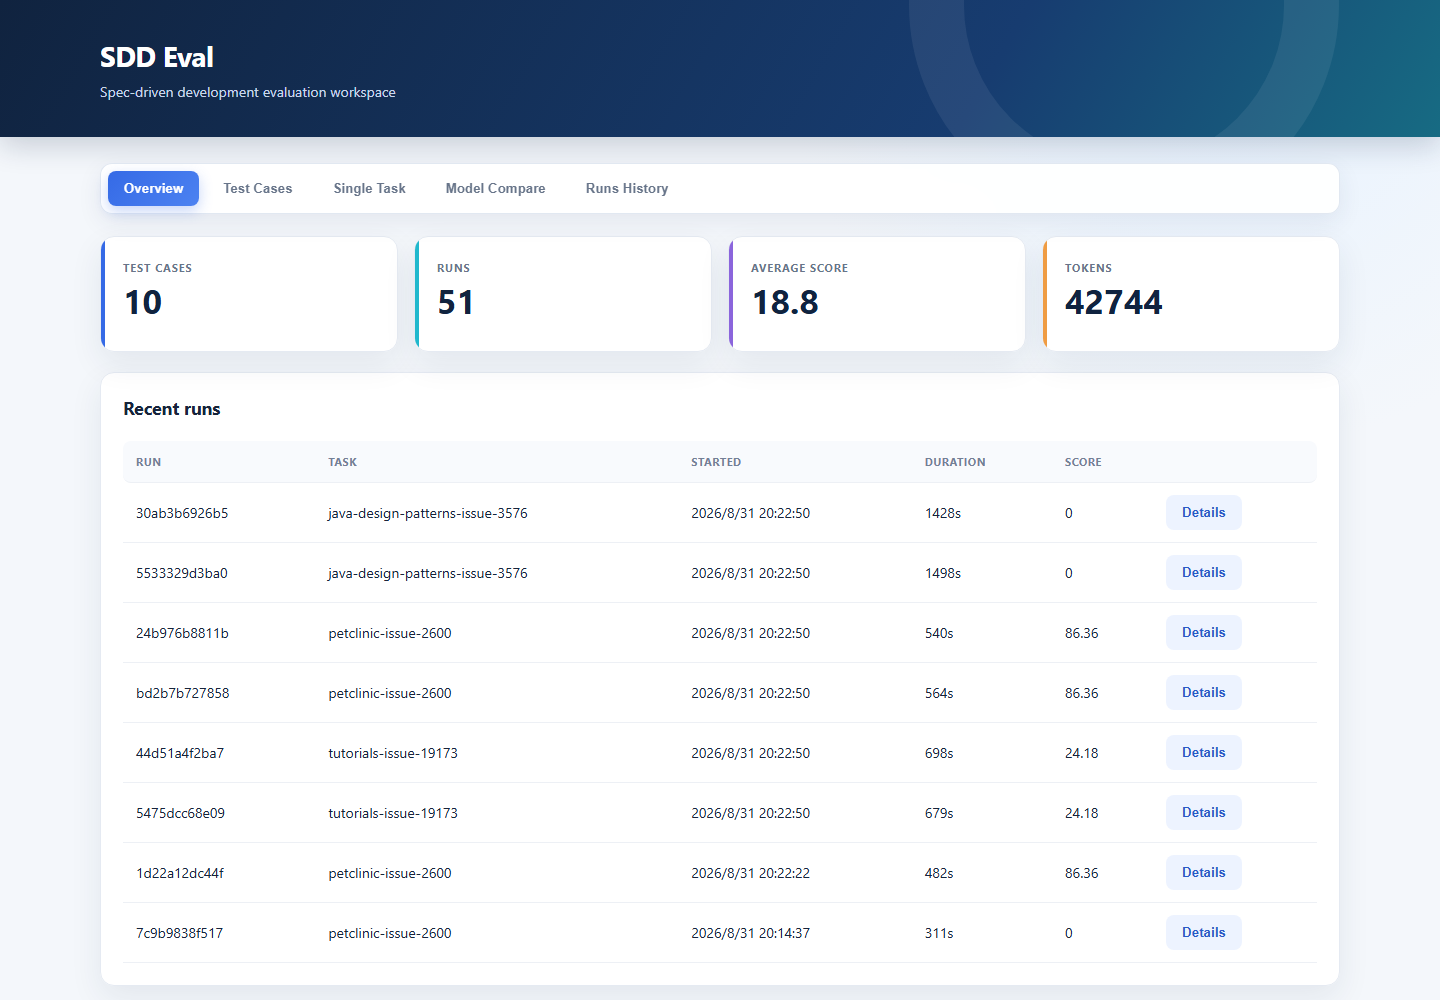
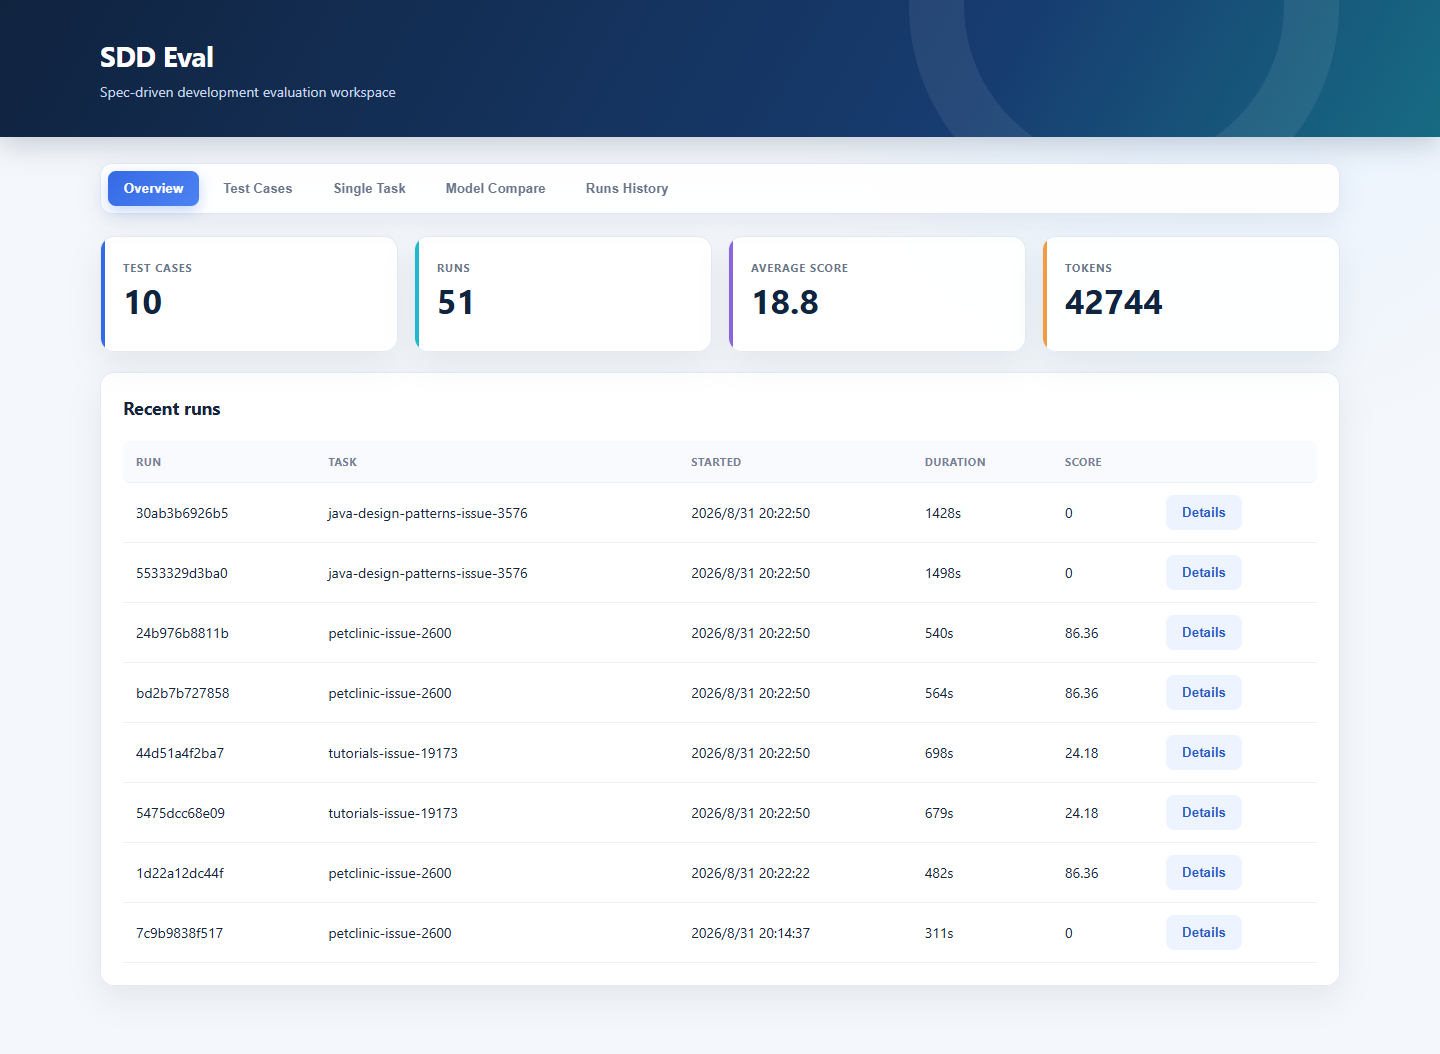
Add dashboard tab and run detail screenshots

diff --git a/README.md b/README.md
@@ -79,6 +79,44 @@ sdd-eval import-task examples/tasks/issue-backed-open-source.json
 | **Model Compare** | 多选 Test Case 和模型，执行矩阵对比；查看每个任务的分项得分、模型平均分和历史对比记录。 |
 | **Runs History** | 查看所有运行的状态、开始时间、耗时和总分，并打开完整运行详情。 |
 
+## 页面截图
+
+### Overview
+
+汇总 Test Case 数量、运行次数、平均分和 Token 使用量，并列出最近八次运行。
+
+![Overview](docs/images/dashboard-overview.png)
+
+### Test Cases
+
+集中展示任务用途、项目来源、代码规模和参考 Issue，并提供快捷运行和删除操作。
+
+![Test Cases](docs/images/dashboard-test-cases.png)
+
+### Single Task
+
+通过单选下拉框选择 Test Case，然后配置客户端、模型和 SDD 工作流。
+
+![Single Task](docs/images/dashboard-single-task.png)
+
+### Model Compare
+
+选择多个 Test Case 和模型执行矩阵评测，并在同一页面查看历史对比结果。
+
+![Model Compare](docs/images/dashboard-model-compare.png)
+
+### Runs History
+
+按时间倒序展示全部运行，可查看状态、耗时、得分及详细结果。
+
+![Runs History](docs/images/dashboard-runs-history.png)
+
+### Run 详情
+
+以下为 Run `24b976b8811b` 的详情示例，包括评分、参考任务、构建测试状态和逐步执行记录。
+
+![Run 24b976b8811b details](docs/images/run-24b976b8811b-details.png)
+
 ## 操作手册
 
 ### 执行单个 Test Case
